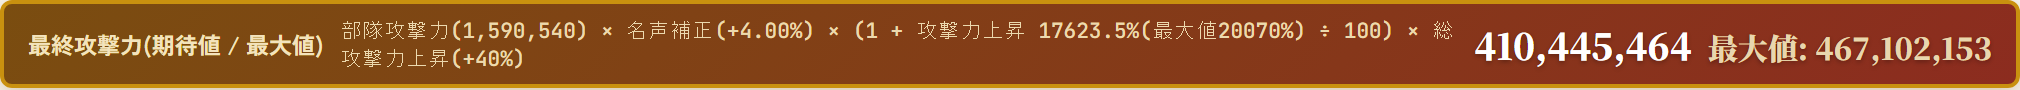
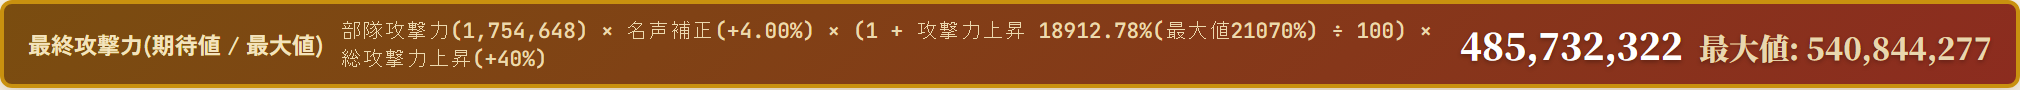
使い方記事: 3章の画像を差し替え、1章の武将名と初期スキルを対応させる
雄飛新世は織田信長(9)【覇】の初期スキルで他武将には移植できないため、
追加2枠に入れて総攻撃力上昇を見せていたのは実際には作れない編成だった。
織田信長(9)【覇】を小隊1に置き、初期スキルとして自然に出るようにした。
これで1章で入力した武将名と3章の初期スキルが一対一で対応する。

あわせて小隊3の武田信玄(6)を織田信秀【覇】に変更。虎王烈迅は対象が
赤備えのため焙烙火矢編成では上昇%が空欄になり、「スキル欄の見かた」の
参照画像としては欠けて見えるため。覇界ノ天虎は対象:全で数値が出る。

本文も撮り直した数値に更新(発動率ボーナス+24.45%、期待値4億8573万/
最大値5億4084万)。5章の「たいてい対象兵科です」を
「多くは対象兵科を指揮していないことが原因です」に修正。

Changed region(s): [[0.499, 0.2222, 0.998, 0.7333], [0.1559, 0.5333, 0.2807, 0.7556], [0.2183, 0.2444, 0.3119, 0.4222]]

diff --git a/blog-attack-simulator-guide.html b/blog-attack-simulator-guide.html
@@ -80,6 +80,11 @@
         <img src="assets/img/blog/guide-02-basic-filled.png" alt="4名を入力して計算した後の00基本ステータス欄" loading="lazy" decoding="async">
       </figure>
 
+      <p>この記事では以降もこの編成のままで説明します。兵士は4列とも焙烙火矢、武将は部隊長から順に
+      <strong>六角定頼・織田信長(9)【覇】・明智光秀【覇】・織田信秀【覇】</strong>です。<br>
+      武将名を入れた時点で、それぞれの初期スキルが下のスキル欄に自動で入ります。3章の画像に出てくる
+      天弦ノ威軍・雄飛新世・滅神五芒星・覇界ノ天虎が、この4人の初期スキルです。</p>
+
       <div class="article-gap3"></div>
     </div>
 
@@ -135,8 +140,8 @@
       </figure>
 
       <p>スキル名の下の数字が上昇%、その右下に出るのが<strong>実発動率</strong>です。実発動率は、スキル本来の発動率に発動率ボーナスを足した値(上限100%)です。<br>
-      上の画像は部隊長に六角定頼(天弦ノ威軍TR5)を置き、小隊1〜3の追加1に摩利支天ノ法を入れて部隊長を模倣させた編成です。天弦ノ威軍が45%+23%で68%、それを模倣した摩利支天ノ法が70%+23%で93%になっています。<br>
-      模倣した側の5250%は、模倣元の4200%を1.25倍した値です。</p>
+      この編成の発動率ボーナスは+24.45%なので、部隊長の天弦ノ威軍は本来の45%に足して69.45%、追加1に入れた摩利支天ノ法は70%に足して94.45%になっています。滅神五芒星と覇界ノ天虎はもともと100%なので、足しても100%どまりです。<br>
+      小隊1〜3の追加1に入れた摩利支天ノ法は部隊長の初期スキルを模倣するスキルで、その5250%は模倣元(天弦ノ威軍TR5)の4200%を1.25倍した値です。</p>
 
       <p><strong>上昇%の欄が赤枠になっているのは、その数字が満額では入らないという印です。</strong>条件は2つあり、どちらかに当たると赤くなります。</p>
 
@@ -145,12 +150,12 @@
         <li>卓越の抽選結果しだいで値が変わる(期待値と最大値がずれる)</li>
       </ol>
 
-      <p>上の画像だと天弦ノ威軍と摩利支天ノ法は1つ目に当たって赤枠です。小隊1の滅神五芒星が青枠なのは、実発動率が100%で卓越も持たないので、書いてある120%がそのまま入るからです。</p>
+      <p>上の画像だと天弦ノ威軍と摩利支天ノ法は1つ目に当たって赤枠です。滅神五芒星(120%)と覇界ノ天虎(1000%)が青枠なのは、実発動率が100%で卓越も持たないので、書いてある数字がそのまま入るからです。</p>
 
       <h3>総攻撃力を上げるスキルは別扱い</h3>
 
-      <p>小隊3の追加2に入れた雄飛新世TR5は、上昇%の欄が数字ではなく<strong>「総攻撃力+40%」</strong>という表示になっています。<br>
-      このタイプは16枠の上昇%の合計には入らず、<strong>最後に部隊全体へ掛け算されます</strong>。だから「合計上昇効果」の欄にも出てきません。<br>
+      <p>小隊1の織田信長(9)【覇】を入れたことで初期スキルに入った雄飛新世TR5は、上昇%の欄が数字ではなく<strong>「総攻撃力+40%」</strong>という表示になっています。<br>
+      このタイプは16枠の上昇%の合計には入らず、<strong>最後に部隊全体へ掛け算されます</strong>。だから小隊1の「合計上昇効果」にもこの40%は入っていません。<br>
       対象兵科を指揮している列がないと乗らないので、注意してください(雄飛新世は砲・器が対象なので、この編成では焙烙火矢で条件を満たしています)。</p>
 
       <div class="article-gap3"></div>
@@ -175,7 +180,7 @@
         </table>
       </div>
 
-      <p>上の例だと期待値4億1044万に対して最大値4億6710万で、5666万ほど差があります。この差は「発動しない枠がある」分です。<br>
+      <p>上の例だと期待値4億8573万に対して最大値5億4084万で、5511万ほど差があります。この差は「発動しない枠がある」分です。<br>
       <strong>発動率100%かつ卓越なし(または卓越確率100%)のスキルだけで組んだときだけ、期待値と最大値が一致します。</strong></p>
 
       <p>どちらを見るべきかは目的によります。1発の上振れを狙うなら最大値、何回も攻撃したときの平均を知りたいなら期待値です。</p>
@@ -186,7 +191,7 @@
     <div class="content-block">
       <h2>5. 効果が乗らないときに疑うところ</h2>
 
-      <p>スキルを入れたのに上昇%が0のままなら、たいてい<strong>対象兵科</strong>です。<br>
+      <p>スキルを入れたのに上昇%が0のままなら、多くは<strong>対象兵科</strong>を指揮していないことが原因です。<br>
       その列で指揮している兵種がスキルの対象外だと、効果は0として扱われます。赤備え(騎馬)の部隊に弓対象のスキルを入れても乗らない、という挙動をそのまま再現しています。<br>
       部隊長模倣も同じで、模倣元のスキルが対象兵科外なら、模倣した側も0になります。</p>
 
